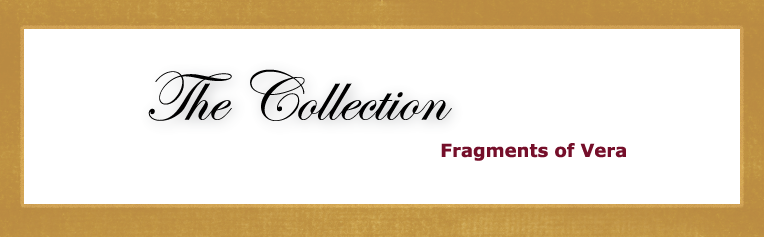
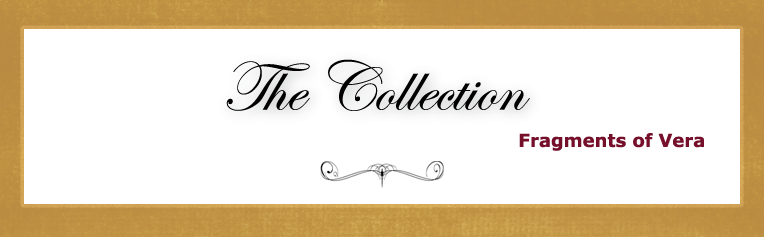
updated browse html

Changed region(s): [[0.1806, 0.2363, 0.6924, 0.5021], [0.4215, 0.5612, 0.9332, 0.7679]]

diff --git a/main/webapp/browse.html b/main/webapp/browse.html
@@ -48,7 +48,8 @@
     </nav>
   </header>
   <div id="main" role="main" class="lift:surround?with=default?at=content clearfix">
-  
+   	<br><center><img src="/img/browse.png" id="the_collection" alt="The Collection: Fragments of Vera" />
+    	</br></center>
     <!-- Main artifact -->
     <div id="content" class="static_page">
     
